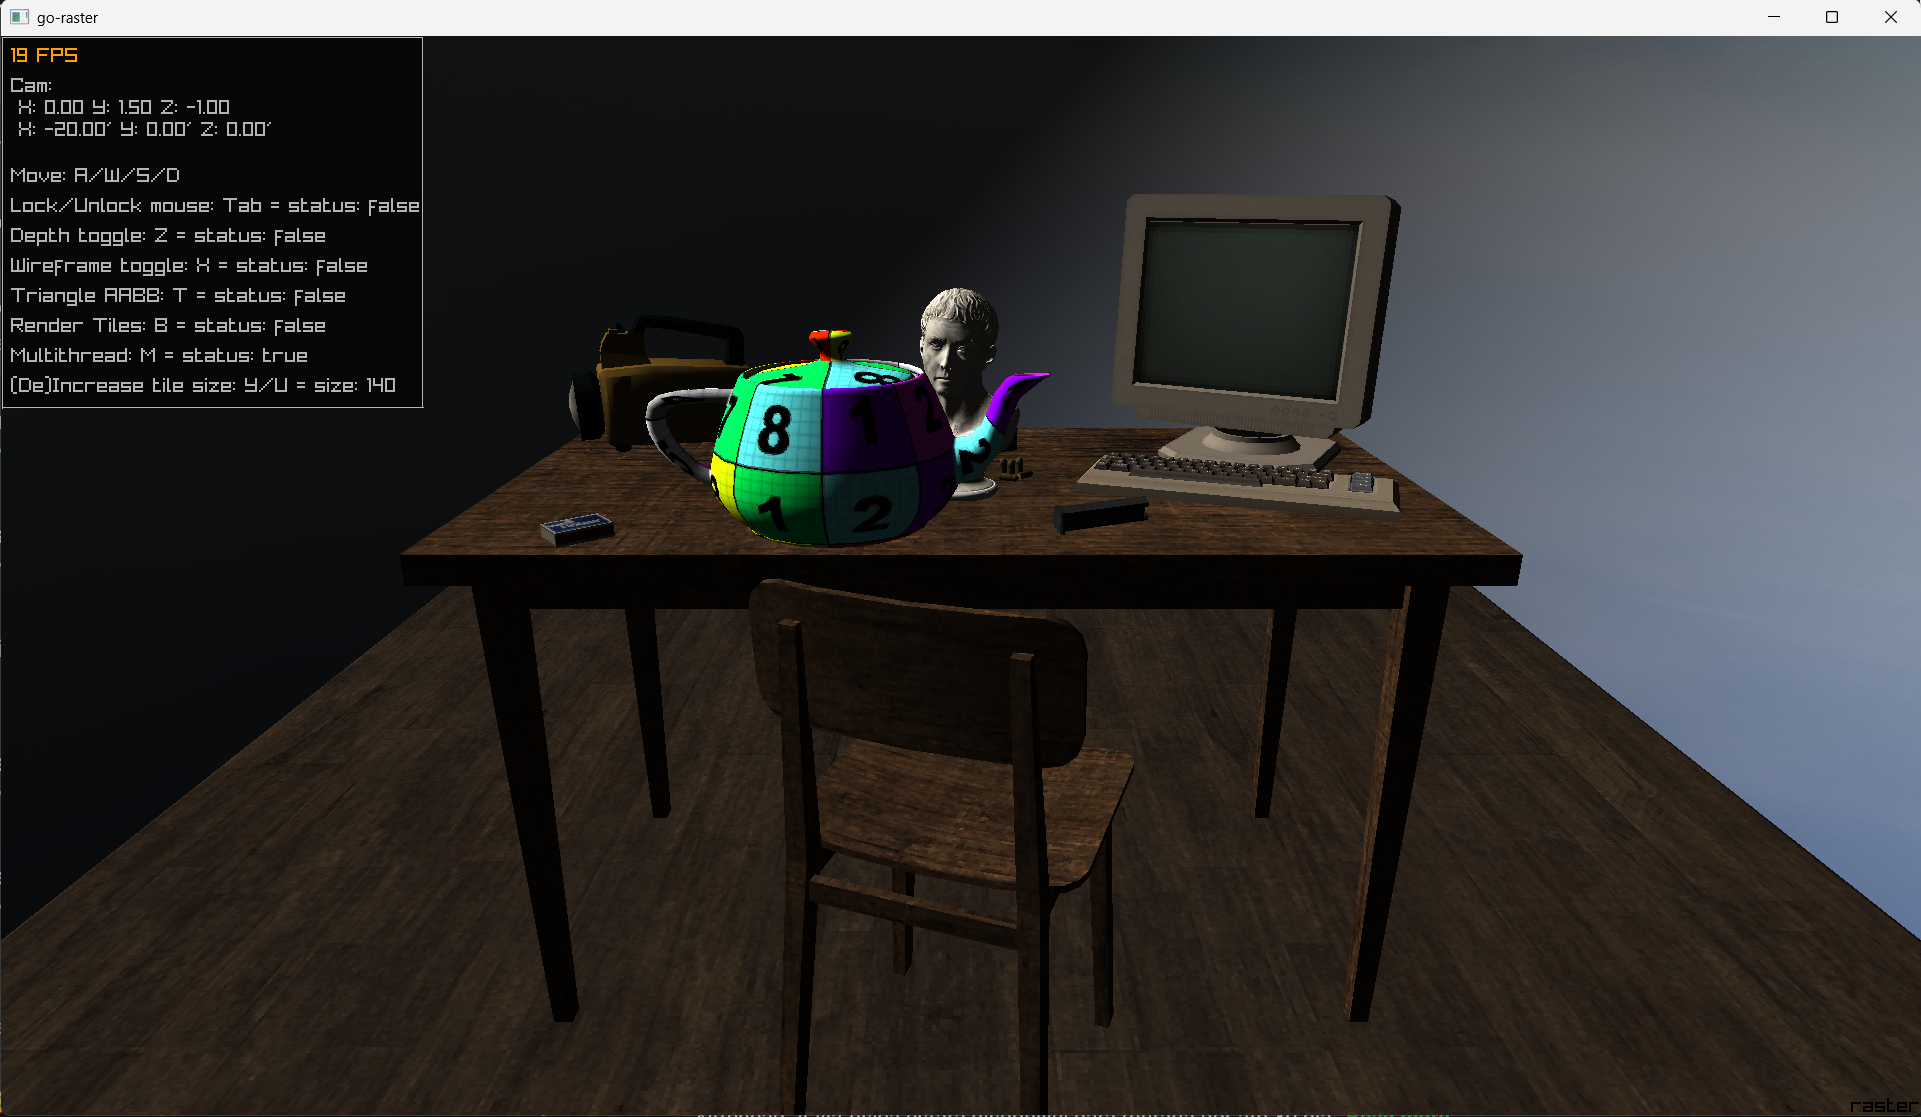
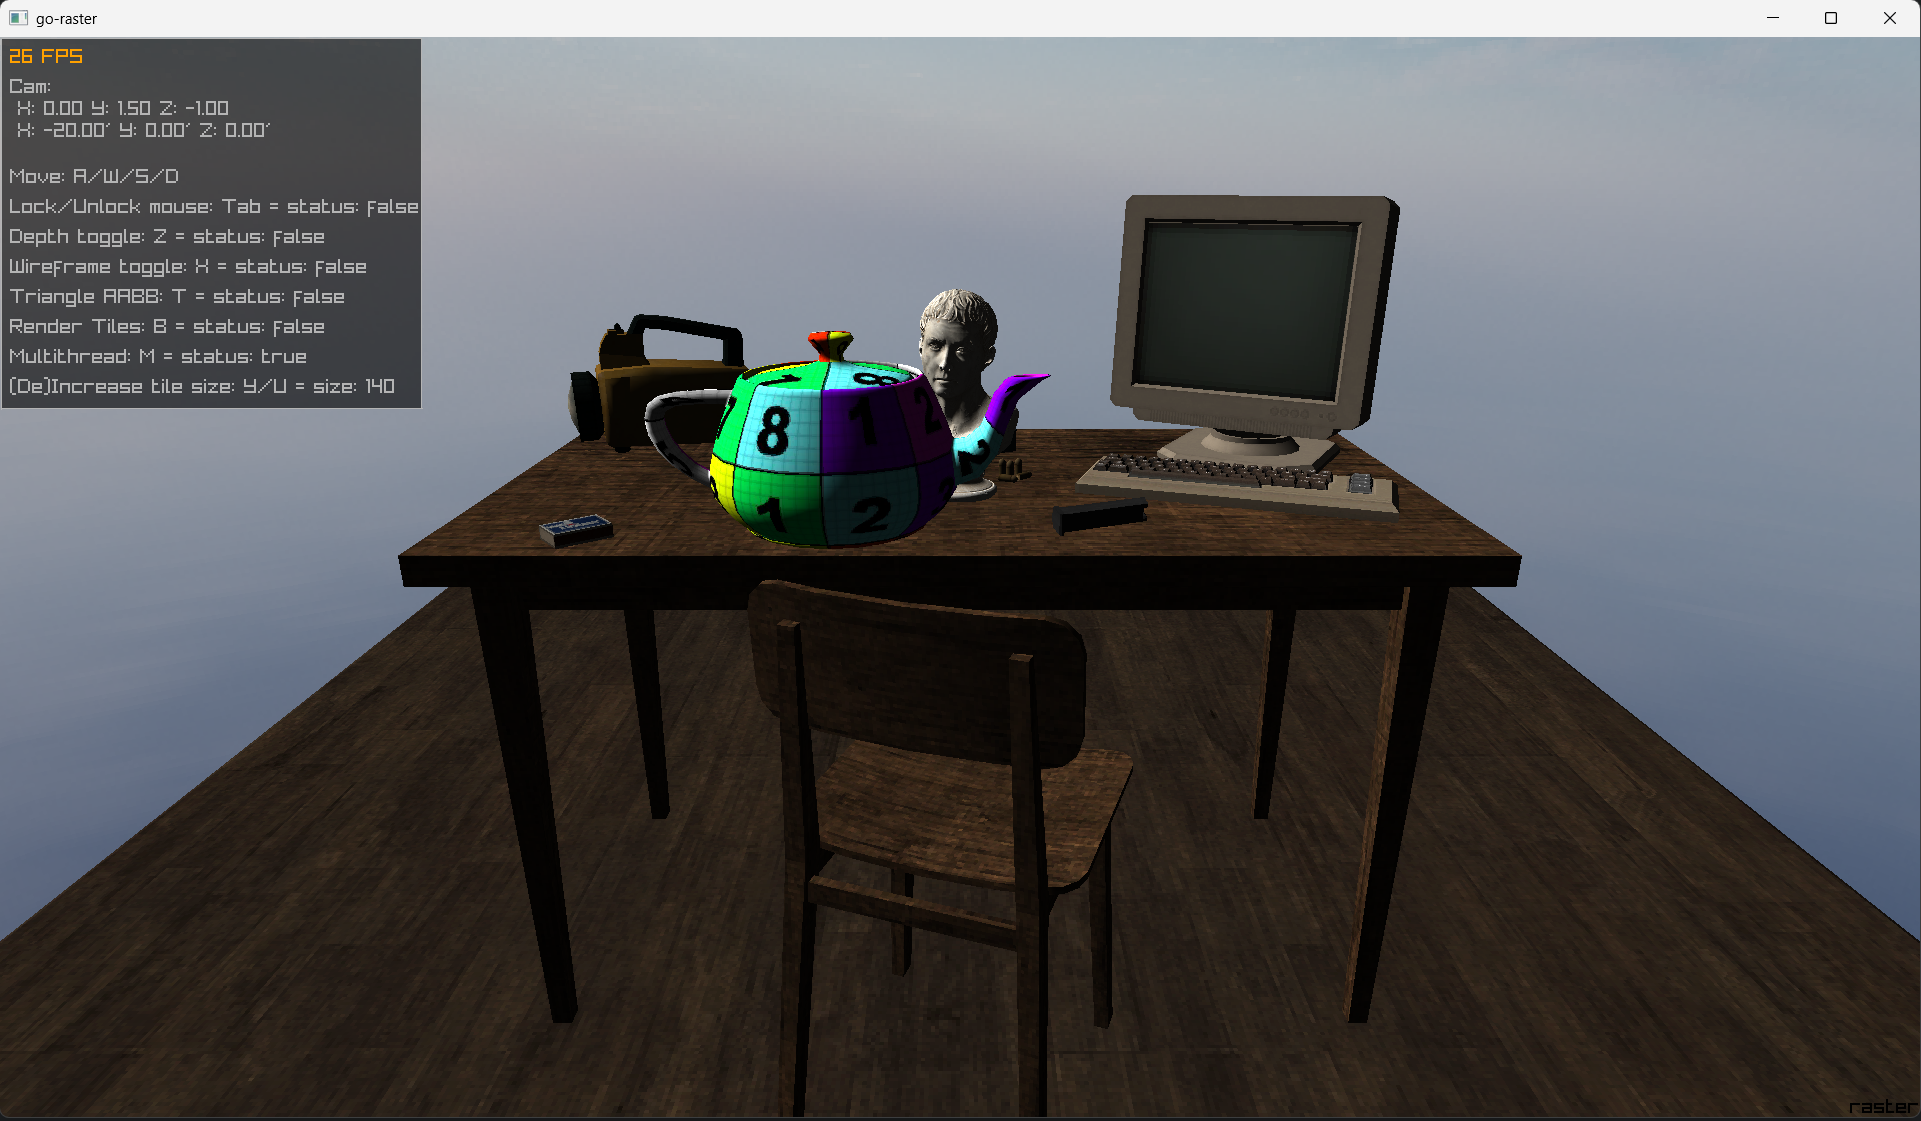
Simple trick to render skybox mesh unlit

diff --git a/internal/renderer/renderer.go b/internal/renderer/renderer.go
@@ -509,99 +509,107 @@ func (r *Renderer) singlethreadRender() {
 	}
 }
 
-func (r *Renderer) renderMeshs() {
+func (r *Renderer) renderMesh(o *mesh.Model) {
+	matTransform := r.scene.ActiveCam.Transforms.MatrixTransforms.MultiplyByMatrix(o.Transforms.MatrixTransforms)
+	matRoation := r.scene.ActiveCam.Transforms.RotationMat.MultiplyByMatrix(o.Transforms.RotationMat)
 
-	for i := range r.scene.Lights {
-		// rotate and invert, as the dot expects the normal to be aligned wiht the light, in other worlds,
-		// light normal is opposit of its direction
-		r.scene.Lights[i].DirectionWorld = r.scene.ActiveCam.Transforms.RotationMat.MultiplyByVec3(r.scene.Lights[i].Direction).Normalized().Scale(-1)
+	o.BoundingSphere.CenterWord = matTransform.MultiplyByVec3(o.BoundingSphere.Center)
+
+	if !r.scene.ActiveCam.Frustum.IsBoundsInsideFrustum(&o.BoundingSphere) {
+		return
 	}
 
-	for _, o := range r.scene.Objects {
-		matTransform := r.scene.ActiveCam.Transforms.MatrixTransforms.MultiplyByMatrix(o.Transforms.MatrixTransforms)
-		matRoation := r.scene.ActiveCam.Transforms.RotationMat.MultiplyByMatrix(o.Transforms.RotationMat)
+	for i := range len(o.Mesh.Verts) {
+		o.Mesh.VertsWorld[i] = matTransform.MultiplyByVec3(o.Mesh.Verts[i])
+	}
 
-		o.BoundingSphere.CenterWord = matTransform.MultiplyByVec3(o.BoundingSphere.Center)
+	for i := range len(o.Mesh.Normals) {
+		o.Mesh.NormalsWorld[i] = matRoation.MultiplyByVec3(o.Mesh.Normals[i])
+	}
 
-		if !r.scene.ActiveCam.Frustum.IsBoundsInsideFrustum(&o.BoundingSphere) {
+	r.trianglesBuffer = r.trianglesBuffer[:0]
+	for _, t := range o.Mesh.Tris {
+		if !t.BackFaceCulling(o.Mesh.VertsWorld, o.Mesh.NormalsWorld) {
 			continue
 		}
 
-		for i := range len(o.Mesh.Verts) {
-			o.Mesh.VertsWorld[i] = matTransform.MultiplyByVec3(o.Mesh.Verts[i])
+		v1 := mesh.ClippedVertex{
+			V: o.Mesh.VertsWorld[t.V1],
+			N: o.Mesh.NormalsWorld[t.N1],
+			U: o.Mesh.UV[t.U1],
 		}
 
-		for i := range len(o.Mesh.Normals) {
-			o.Mesh.NormalsWorld[i] = matRoation.MultiplyByVec3(o.Mesh.Normals[i])
+		v2 := mesh.ClippedVertex{
+			V: o.Mesh.VertsWorld[t.V2],
+			N: o.Mesh.NormalsWorld[t.N2],
+			U: o.Mesh.UV[t.U2],
 		}
 
-		r.trianglesBuffer = r.trianglesBuffer[:0]
-		for _, t := range o.Mesh.Tris {
-			if !t.BackFaceCulling(o.Mesh.VertsWorld, o.Mesh.NormalsWorld) {
-				continue
-			}
-
-			v1 := mesh.ClippedVertex{
-				V: o.Mesh.VertsWorld[t.V1],
-				N: o.Mesh.NormalsWorld[t.N1],
-				U: o.Mesh.UV[t.U1],
-			}
-
-			v2 := mesh.ClippedVertex{
-				V: o.Mesh.VertsWorld[t.V2],
-				N: o.Mesh.NormalsWorld[t.N2],
-				U: o.Mesh.UV[t.U2],
-			}
-
-			v3 := mesh.ClippedVertex{
-				V: o.Mesh.VertsWorld[t.V3],
-				N: o.Mesh.NormalsWorld[t.N3],
-				U: o.Mesh.UV[t.U3],
-			}
-
-			r.sHoutputList = r.sHoutputList[:0]
-			r.sHinputList = r.sHinputList[:3]
-
-			r.sHoutputList = append(r.sHoutputList, v1)
-			r.sHoutputList = append(r.sHoutputList, v2)
-			r.sHoutputList = append(r.sHoutputList, v3)
-
-			r.clipTriangles()
-
-			if len(r.sHoutputList) > 2 {
-				for i := 1; i < len(r.sHoutputList)-1; i++ {
-
-					triangle := r.scene.ActiveCam.ProjectTriangle(
-						r.sHoutputList[0],
-						r.sHoutputList[i],
-						r.sHoutputList[i+1],
-						o.Mesh.Texture, o.Mesh.Normal, o.Mesh.Specular)
-
-					triangle.ShaderSmooth = t.ShaderSmooth
-					r.trianglesBuffer = append(r.trianglesBuffer, triangle)
-				}
-			}
+		v3 := mesh.ClippedVertex{
+			V: o.Mesh.VertsWorld[t.V3],
+			N: o.Mesh.NormalsWorld[t.N3],
+			U: o.Mesh.UV[t.U3],
 		}
 
-		if r.RenderMultithreaded {
-			r.multithreadRender()
-		} else {
-			r.singlethreadRender()
+		r.sHoutputList = r.sHoutputList[:0]
+		r.sHinputList = r.sHinputList[:3]
+
+		r.sHoutputList = append(r.sHoutputList, v1)
+		r.sHoutputList = append(r.sHoutputList, v2)
+		r.sHoutputList = append(r.sHoutputList, v3)
+
+		r.clipTriangles()
+
+		if len(r.sHoutputList) > 2 {
+			for i := 1; i < len(r.sHoutputList)-1; i++ {
+
+				triangle := r.scene.ActiveCam.ProjectTriangle(
+					r.sHoutputList[0],
+					r.sHoutputList[i],
+					r.sHoutputList[i+1],
+					o.Mesh.Texture, o.Mesh.Normal, o.Mesh.Specular)
+
+				triangle.ShaderSmooth = t.ShaderSmooth
+				r.trianglesBuffer = append(r.trianglesBuffer, triangle)
+			}
 		}
+	}
+
+	if r.RenderMultithreaded {
+		r.multithreadRender()
+	} else {
+		r.singlethreadRender()
+	}
+}
+
+func (r *Renderer) renderMeshs() {
+	for i := range r.scene.Objects {
+		r.renderMesh(r.scene.Objects[i])
 		// break
 	}
 }
 
-func (r *Renderer) Render() {
-	r.scene.ActiveCam.ClearCanvas()
-
+func (r *Renderer) resetTiles() {
 	if r.RenderMultithreaded {
 		for i := range r.tiles {
 			r.tiles[i].WasActivatedOnce = false
 		}
 	}
 
+}
+func (r *Renderer) renderSkybox() {
+	state := r.RenderLight
+	r.RenderLight = false
+	r.renderMesh(r.scene.SkyBox)
+	r.RenderLight = state
+}
+
+func (r *Renderer) Render() {
+	r.scene.ActiveCam.ClearCanvas()
+	r.scene.UpdateLights()
+	r.resetTiles()
 	r.renderMeshs()
+	r.renderSkybox()
 
 	if r.RenderMultithreaded && r.RenderTileBoundaries {
 		r.drawTileBoundaries()

diff --git a/internal/scene/scene.go b/internal/scene/scene.go
@@ -9,6 +9,7 @@ import (
 type Scene struct {
 	ActiveCam            *camera.Camera
 	Objects              []*mesh.Model
+	SkyBox               *mesh.Model
 	Lights               []lighting.Light
 	AmbientLightStrength float32 // maybe later I"ll add an envioriment struct wiht skybox, this and others
 }
@@ -28,4 +29,12 @@ func (s *Scene) AddMesh(o *mesh.Model) {
 
 func (s *Scene) AddLight(l lighting.Light) {
 	s.Lights = append(s.Lights, l)
+}
+
+func (s *Scene) UpdateLights() {
+	for i := range s.Lights {
+		// rotate and invert, as the dot expects the normal to be aligned wiht the light, in other worlds,
+		// light normal is opposit of its direction
+		s.Lights[i].DirectionWorld = s.ActiveCam.Transforms.RotationMat.MultiplyByVec3(s.Lights[i].Direction).Normalized().Scale(-1)
+	}
 }

diff --git a/cmd/raylib/main.go b/cmd/raylib/main.go
@@ -49,13 +49,16 @@ func main() {
 
 	s := scene.NewScene(camera)
 
+	// Sky box should always at 0 index
 	models, err := scene.LoadSceneFromJSON("./scene.json")
 	if err != nil {
 		panic(err)
 	}
 
-	for i := range models {
-		s.AddMesh(&models[i])
+	s.SkyBox = &models[0]
+
+	for i := range len(models) - 1 {
+		s.AddMesh(&models[i+1])
 	}
 
 	s.AddLight(lighting.NewLight(
